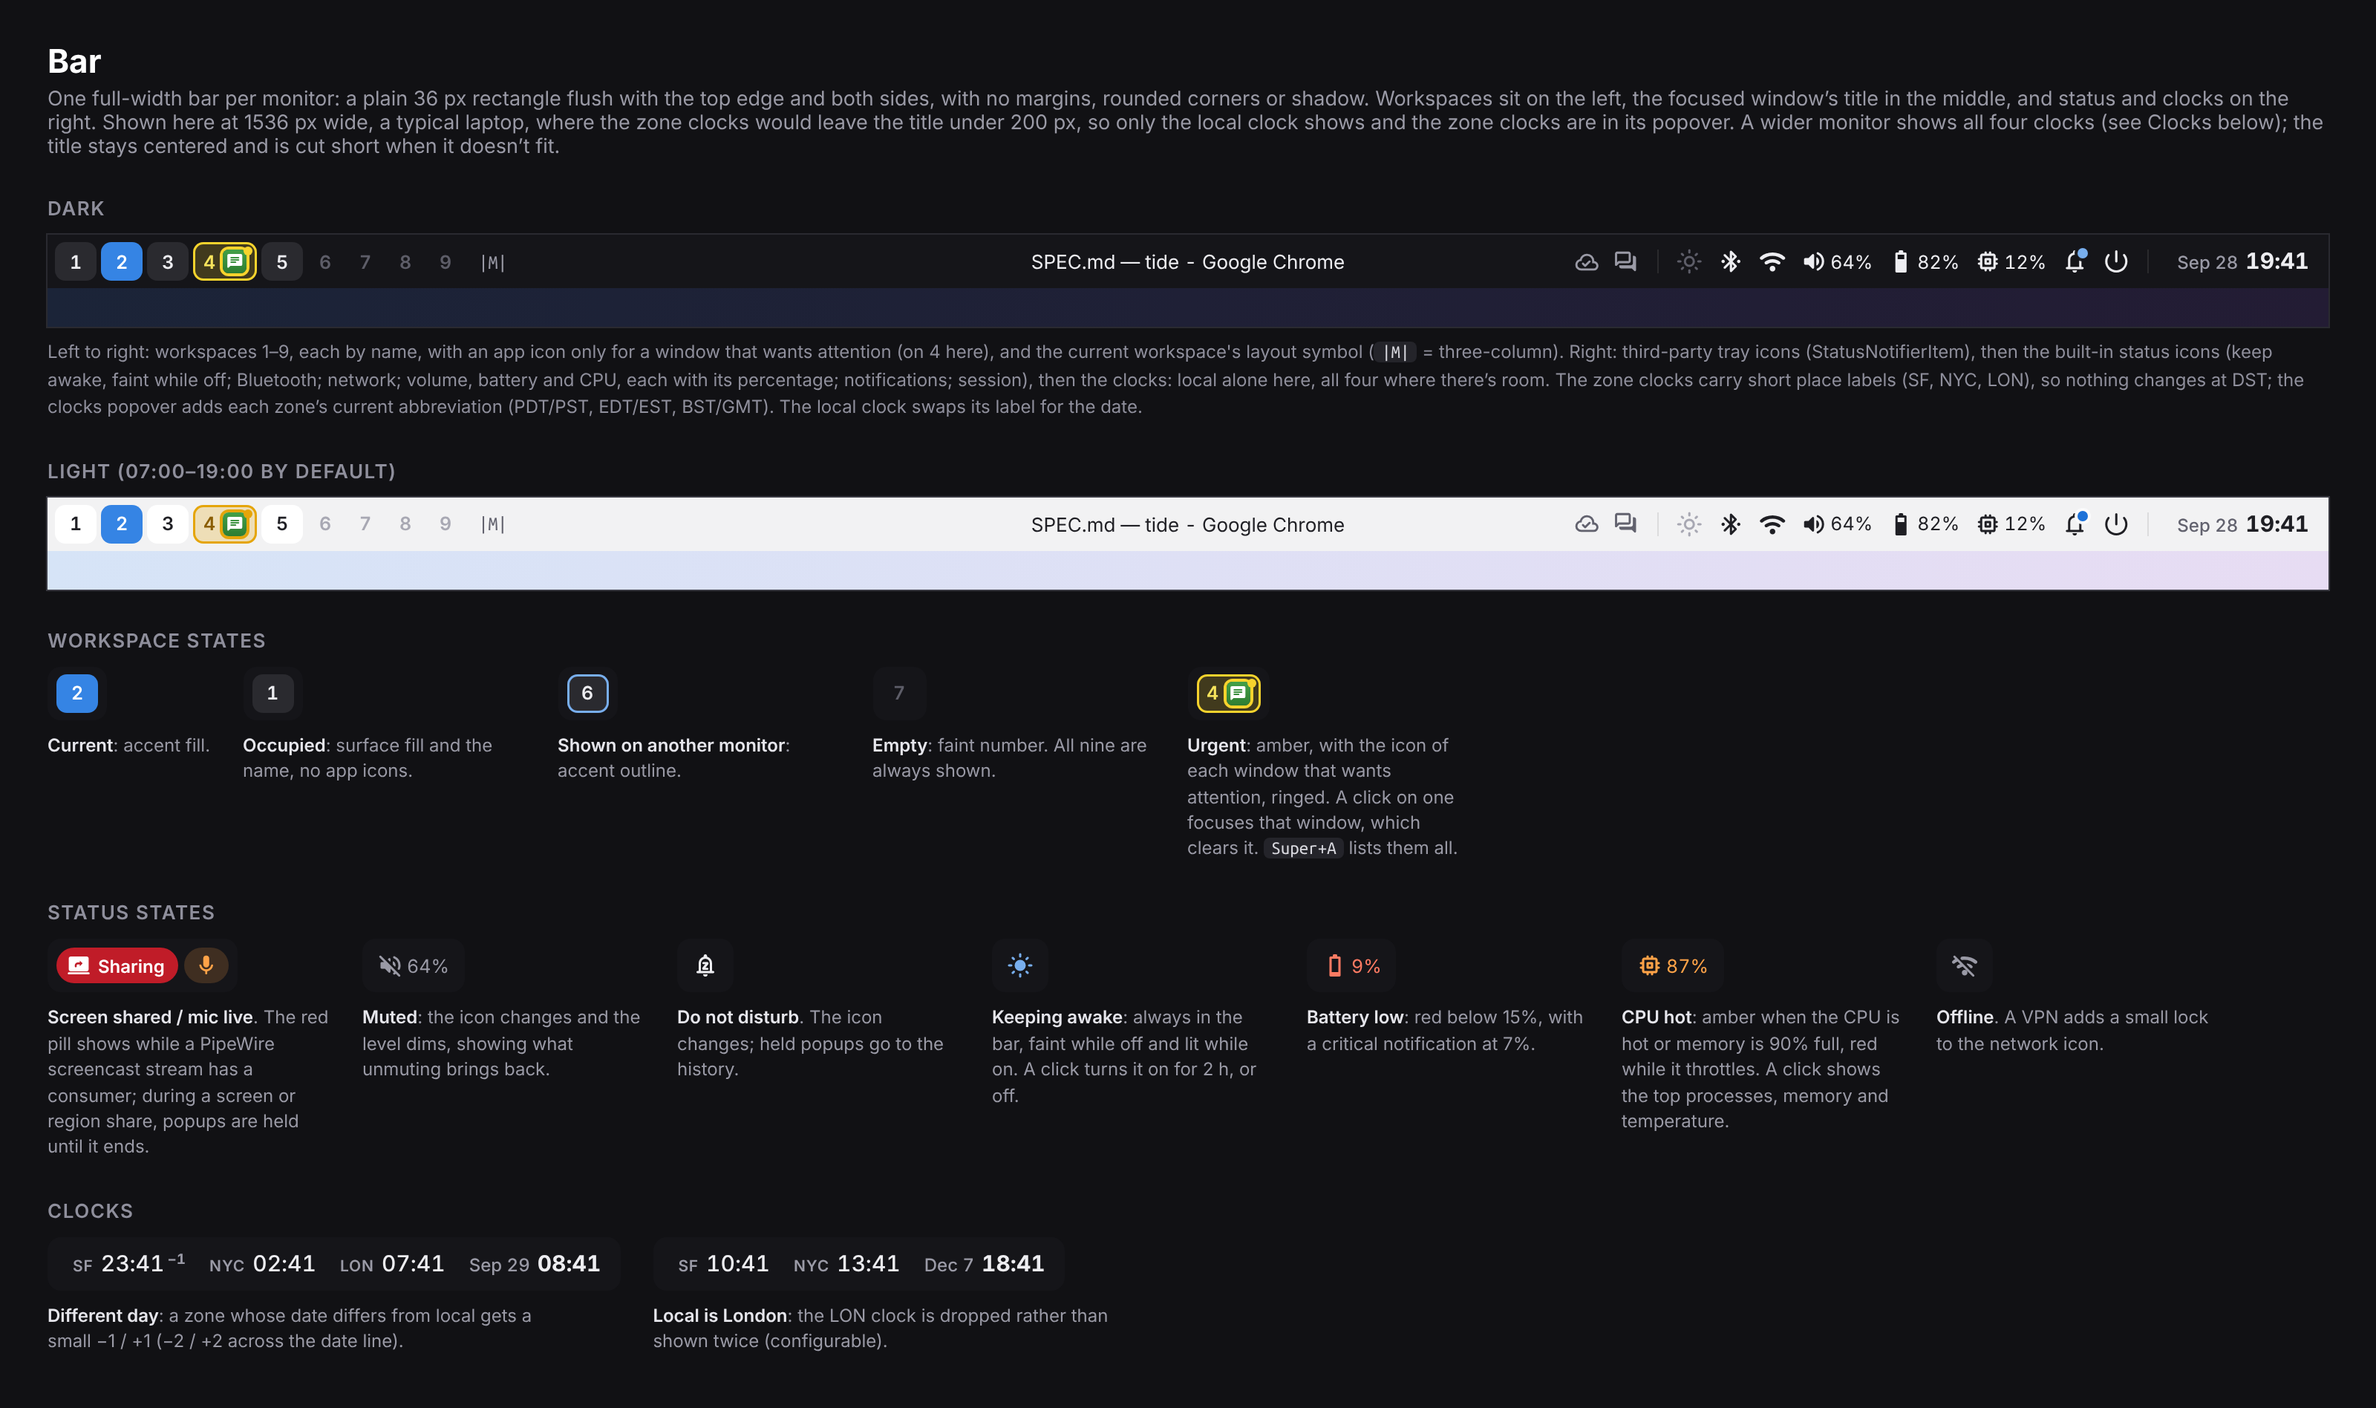
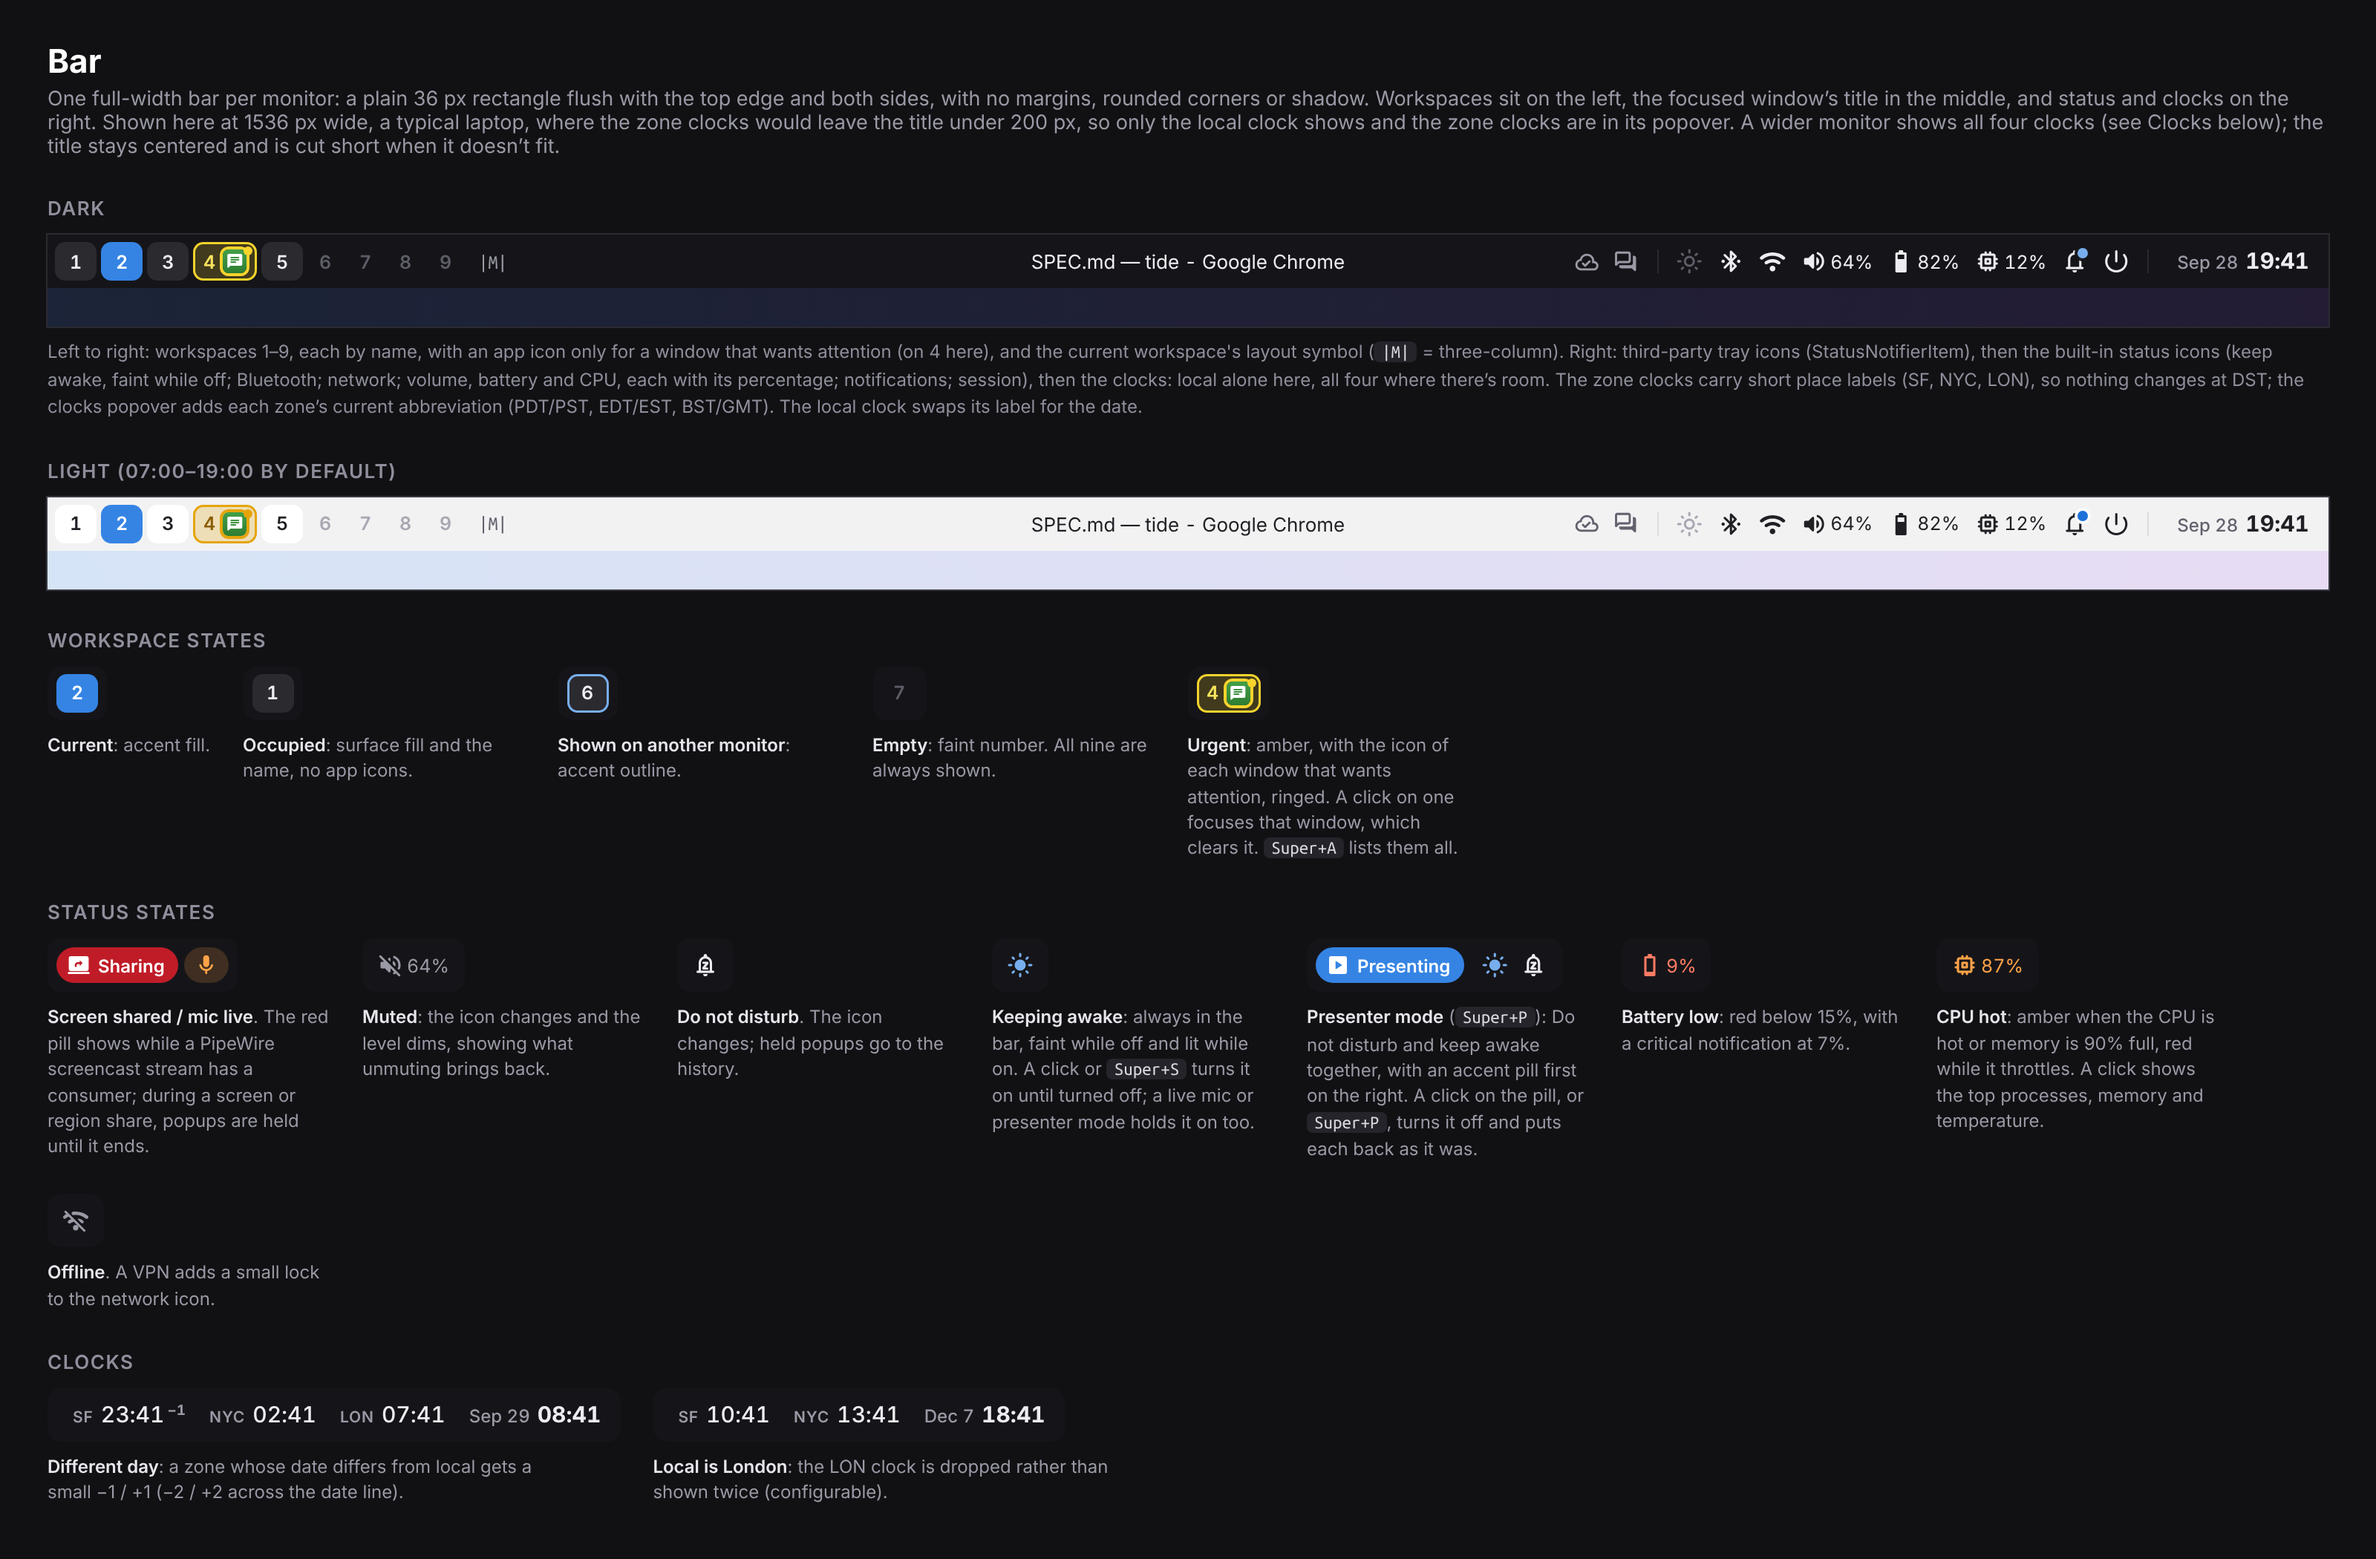
docs: Specify Super+S for keep awake and Super+P for presenter mode
Adds both keys to §6.6, and defines presenter mode in §10 beside keep
awake: Do not disturb and keep awake together, held on over the two
toggles rather than overwriting them, so turning it off leaves each as it
was before. Turning either toggle off while presenting ends it; a live
mic still holds keep awake; without the shell as the notification server
it holds keep awake alone. The bar gets an accent Presenting pill (§7.1,
§7.4), the launcher a quick action, and both keys show the OSD. The bar
mock shows the pill, and its keep-awake caption loses the old two-hour
limit.

Claude-Session: https://claude.ai/code/session_01HVTEXxBWDTRrazjgKYSyrW

diff --git a/docs/mocks/bar.html b/docs/mocks/bar.html
@@ -14,6 +14,7 @@
   .chip { display: flex; flex-direction: column; align-items: flex-start; }
   .chip .bar { border-radius: 9px; padding: 0 6px; }
   .chip .cap { max-width: 190px; }
+  .pill.present { background: var(--accent-bg); color: var(--accent-fg); }
 </style>
 </head>
 <body class="sheet" data-width="1600" data-scale="2">
@@ -114,7 +115,8 @@
   <div class="chip"><div class="bar"><span class="pill share"><i class="ms fill">screen_share</i>Sharing</span><span style="width:4px"></span><span class="pill mic"><i class="ms fill">mic</i></span></div><div class="cap"><b>Screen shared / mic live</b>. The red pill shows while a PipeWire screencast stream has a consumer; during a screen or region share, popups are held until it ends.</div></div>
   <div class="chip"><div class="bar"><span class="sicon" style="color:var(--fg-dim)"><i class="ms fill">volume_off</i>64%</span></div><div class="cap"><b>Muted</b>: the icon changes and the level dims, showing what unmuting brings back.</div></div>
   <div class="chip"><div class="bar"><span class="sicon"><i class="ms">notifications_paused</i></span></div><div class="cap"><b>Do not disturb</b>. The icon changes; held popups go to the history.</div></div>
-  <div class="chip"><div class="bar"><span class="sicon" style="color:var(--accent)"><i class="ms fill">light_mode</i></span></div><div class="cap"><b>Keeping awake</b>: always in the bar, faint while off and lit while on. A click turns it on for 2&nbsp;h, or off.</div></div>
+  <div class="chip"><div class="bar"><span class="sicon" style="color:var(--accent)"><i class="ms fill">light_mode</i></span></div><div class="cap"><b>Keeping awake</b>: always in the bar, faint while off and lit while on. A click or <kbd>Super+S</kbd> turns it on until turned off; a live mic or presenter mode holds it on too.</div></div>
+  <div class="chip"><div class="bar"><span class="pill present"><i class="ms fill">slideshow</i>Presenting</span><span style="width:8px"></span><span class="sicon" style="color:var(--accent)"><i class="ms fill">light_mode</i></span><span class="sicon"><i class="ms">notifications_paused</i></span></div><div class="cap"><b>Presenter mode</b> (<kbd>Super+P</kbd>): Do not disturb and keep awake together, with an accent pill first on the right. A click on the pill, or <kbd>Super+P</kbd>, turns it off and puts each back as it was.</div></div>
   <div class="chip"><div class="bar"><span class="sicon low"><i class="ms fill">battery_1_bar</i>9%</span></div><div class="cap"><b>Battery low</b>: red below 15%, with a critical notification at 7%.</div></div>
   <div class="chip"><div class="bar"><span class="sicon" style="color:var(--warn)"><i class="ms">memory</i>87%</span></div><div class="cap"><b>CPU hot</b>: amber when the CPU is hot or memory is 90% full, red while it throttles. A click shows the top processes, memory and temperature.</div></div>
   <div class="chip"><div class="bar"><span class="sicon dim"><i class="ms">wifi_off</i></span></div><div class="cap"><b>Offline</b>. A VPN adds a small lock to the network icon.</div></div>

diff --git a/SPEC.md b/SPEC.md
@@ -933,6 +933,8 @@ with new keys in **bold**:
 | `Super+Backspace` | close window |
 | **`Super+Z`** | minimize the focused window; its icon goes to the corner tray, and a click there restores it (§6.7) |
 | `Super+L` | lock |
+| **`Super+S`** | toggle keep awake (§10), as the bar's icon does; the OSD says which |
+| **`Super+P`** | toggle presenter mode: Do not disturb and keep awake together (§10) |
 | **`Super+Home`** | go to home (§6.5) |
 | **`Super+End`** | go to the workspace other than home you last used: from home, where `Super+Tab` goes; from any other, the one before it, so presses toggle between two |
 | `Super+Left` / `Right`, **`Super+PgUp`** / **`PgDn`** | previous / next workspace in the bar's order, stopping at either end (as in KDE and on the Mac; PgUp/PgDn as in GNOME) |
@@ -963,9 +965,15 @@ with new keys in **bold**:
   gone.
   - Hyprland takes a bound key from every app, so `Alt+Tab` no longer
     reaches one, such as a remote desktop or a VM viewer.
+- **`Super+S`** was left unbound for a per-machine `secureshell` launcher.
+  It's keep awake now; `Super+D` stays free for one.
+- **`Super+S`** and **`Super+P`** call the shell
+  (`qs -c tide ipc call keepawake toggle`, `... presenter toggle`).
+  Without the shell, a notification says the key needs it.
 
 Two keys are dropped: `Super+Shift+\` (toggle to BSP) and `Super+P`
-(pseudo-tile). Both exist only for dwindle, which tide doesn't use.
+(pseudo-tile). Both exist only for dwindle, which tide doesn't use, and
+`Super+P` is presenter mode now.
 Rotate master goes too, since the layouts replace it; its `Super+O` is
 monocle now. So do `Super+1…9` and `Super+Shift+1…9`, which went to and
 sent a window to a numbered workspace: named workspaces are reached by
@@ -1065,7 +1073,8 @@ See [`bar.png`](docs/mocks/bar.png).
   belong only to things that pop up (popovers, notifications, the launcher).
 - **Left:** every workspace by name: the standing ones, home first, then
   the rest in the order they were made (§6.5), then the layout symbol.
-- **Right:** privacy pills (screen shared, mic live), third-party tray icons,
+- **Right:** the Presenting pill while presenter mode is on (§10), privacy
+  pills (screen shared, mic live), third-party tray icons,
   then the built-in status icons: keep-awake, Bluetooth, network,
   volume %, battery %, CPU %, notifications, session. The four clocks come
   last.
@@ -1211,10 +1220,11 @@ See [`bar.png`](docs/mocks/bar.png).
 
 | Icon | Shows | Click | Scroll / other |
 |---|---|---|---|
+| **Presenting** (accent) | presenter mode is on (§10) | turns presenter mode off | — |
 | Privacy: **Sharing** (red) | an xdph PipeWire screencast stream has a consumer (§12) | what is being shared (screen, window or area); stop it from the app | — |
 | Privacy: mic (orange) | any app is capturing the microphone | per-app list with mute | — |
 | Tray items | SNI icons from apps | the app's menu (DBusMenu) | as the app defines |
-| Keep awake | always there: faint while off, in the accent color while on (you asked for it, or the mic is live) | turn on, or off | — |
+| Keep awake | always there: faint while off, in the accent color while on (you asked for it, presenter mode is on, or the mic is live) | turn on, or off | — |
 | Bluetooth | off / on / connected | device list, connect/disconnect; *pair* opens `blueman-manager` | — |
 | Network | Wi-Fi strength / wired / VPN lock / offline | network list, VPNs; *settings* opens `nm-connection-editor` | — |
 | Volume | an icon for mute and level, then the level as a %, dimmed while muted | output and input devices, per-app levels, mute | scroll changes by 5% |
@@ -1372,7 +1382,7 @@ before the switcher had tabs; it's to be redrawn (TODO.md).
   - Screenshot window / screen / region.
   - Lock, log out, suspend, restart, shut down.
   - Settings.
-  - Do not disturb, keep awake, and dark style. Dark style shows whether
+  - Do not disturb, keep awake, presenter mode, and dark style. Dark style shows whether
     it's on and until when, and flips light and dark until the schedule's
     next change (§15).
   - Clear clipboard history (§8.4).
@@ -1621,6 +1631,7 @@ See [`notifications.png`](docs/mocks/notifications.png).
 ### Do not disturb
 
 - **Manual:** from the center, the bell (middle-click), or the launcher.
+- **Presenter mode** (`Super+P`, §10) holds it on along with keep awake.
 - **Automatic while sharing a screen or region:** popups are held and counted
   in the "held while you were sharing" banner.
   - A **window** share holds nothing, since popups aren't in that stream.
@@ -1696,7 +1707,8 @@ those can't quiet it.
 ### Not a notification
 
 - Volume, brightness and mic-mute changes show as an **OSD** drawn by the
-  shell, not as notifications, so they never reach the history.
+  shell, not as notifications, so they never reach the history. So do
+  `Super+S` and `Super+P`, keep awake's and presenter mode's keys (§10).
 - The OSD is a pill at the bottom center of the focused monitor, visible for
   1.2 s.
 - Volume and mute show whatever changed them. Brightness shows only when
@@ -1827,6 +1839,42 @@ one of them:
   never left on by accident across a login.
 - It also switches on automatically **while the microphone is live**, so an
   audio-only call with no video on screen doesn't blank.
+- **`Super+S`** toggles it as a click on the bar's icon does. The OSD (§9)
+  then says "Keep awake on" or "Keep awake off". When only a live mic
+  still holds it, it says "Awake while the mic is live", since the key
+  can't turn that off.
+
+**Presenter mode** is Do not disturb (§9) and keep awake together, for a
+talk, a demo, or a meeting room's screen.
+
+- **Turning it on:** `Super+P`, or the launcher's quick action. Do not
+  disturb and keep awake both go on, whatever they were.
+- **Showing it:** the bar's accent **Presenting** pill, on every monitor
+  (§7.4). The bell and the keep-awake icon show on, as usual. `Super+P`
+  shows the OSD: "Presenting", or "Presenter mode off".
+- **Turning it off:** `Super+P` again, the launcher, or a click on the
+  pill. Each of the two goes back to its own state from just before
+  presenter mode came on. Do not disturb you'd already turned on stays
+  on; keep awake you hadn't asked for goes off.
+- **How it keeps them.** It doesn't change the two toggles. It holds both
+  on over them, as a live mic holds keep awake, and what's in effect is
+  either. So turning it off is putting nothing back.
+- **Either toggle while presenting.** Both read on, so any toggle of one
+  turns it off: the bell's middle-click, the center's tile, the
+  keep-awake icon, `Super+S`, the launcher. That ends presenter mode. The
+  one you turned off goes off, and the other stays on, as if you'd turned
+  it on yourself.
+- **A live mic** still holds keep awake, during presenter mode and after
+  it, as above.
+- **A screen share** holds popups on its own, whatever presenter mode
+  says (§9). A window share holds nothing, so presenting with one wants
+  presenter mode.
+- **Without the shell as the notification server** (`TIDE_NOTIFICATIONS`
+  until swaync retires, §9) there's no Do not disturb to hold. Presenter
+  mode holds keep awake alone, and the OSD says "Presenting, keep awake
+  only".
+- **Lifetime:** like keep awake. It survives a config reload, and a new
+  shell starts with it off, so it's never left on across a login.
 
 **Lock.**
 
